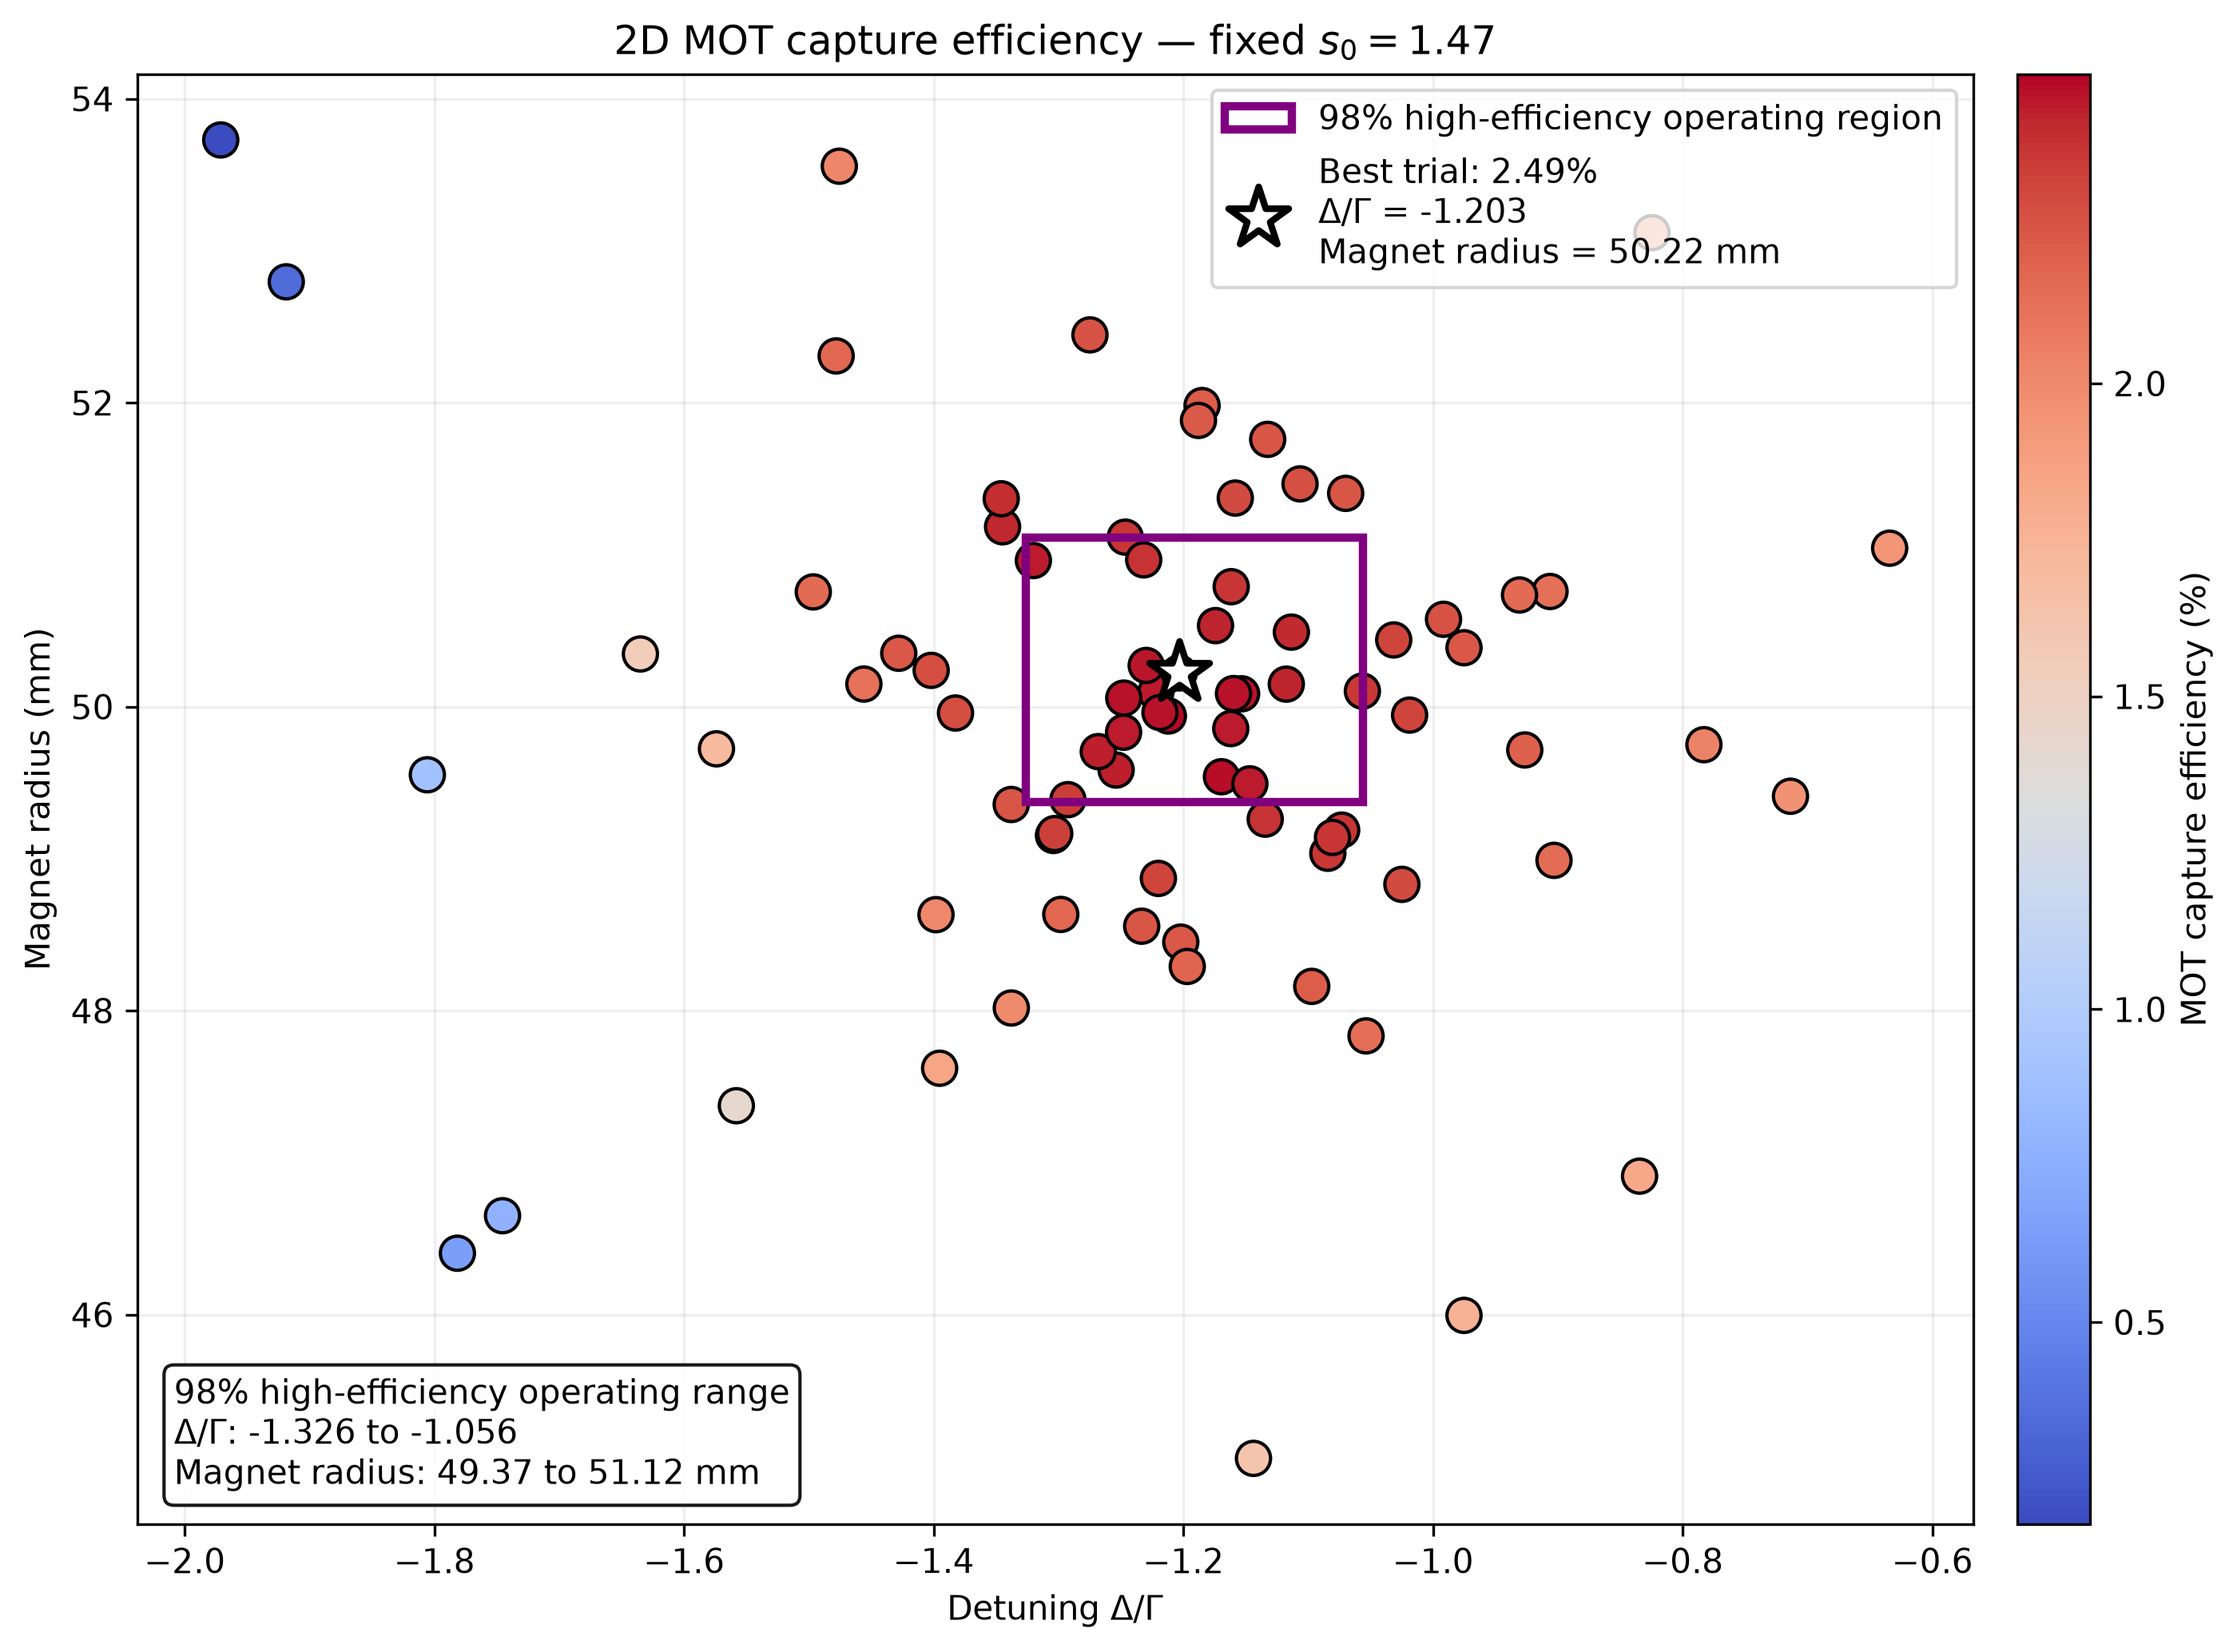
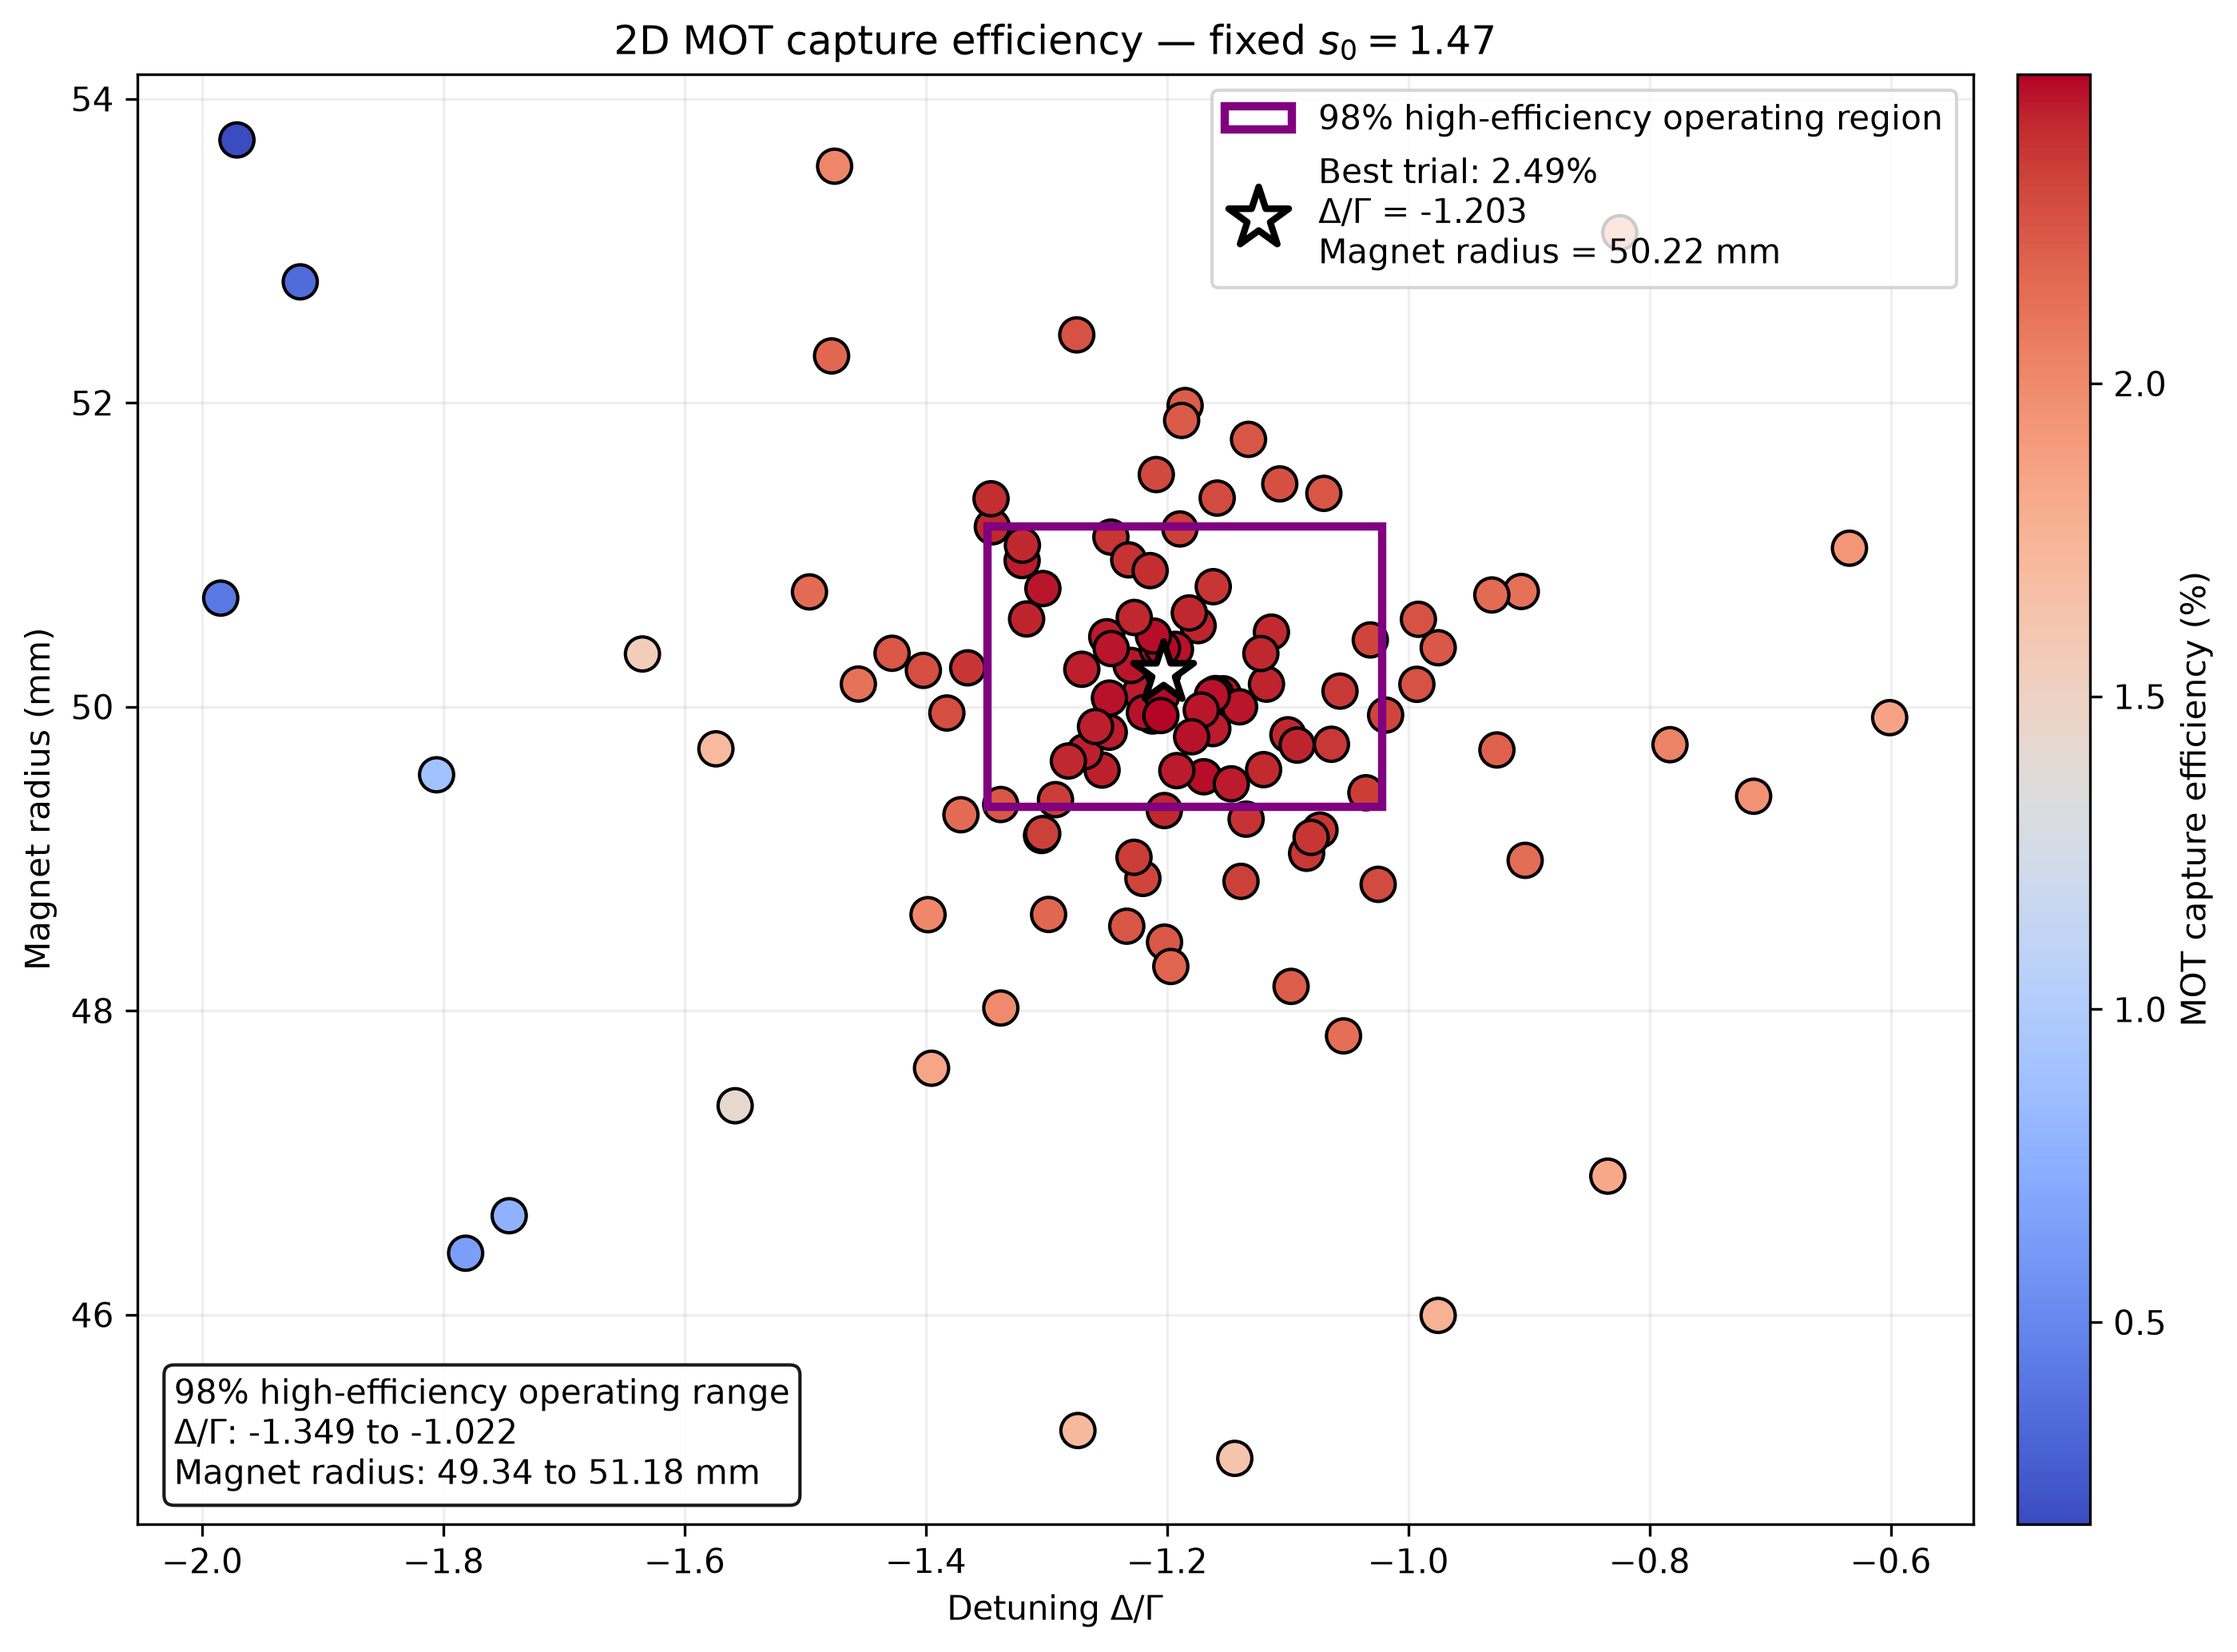
change 2D MOT config

diff --git a/graphs_scripts/plot_3d_mot_configurations.py b/graphs_scripts/plot_3d_mot_configurations.py
@@ -8,9 +8,8 @@ used by ``lab_setup.laser_setup_3d``.
 
 Run from the repository root, for example:
 
-    python plot_3d_mot_configurations.py
-    python plot_3d_mot_configurations.py --config angled_concentric
-    python plot_3d_mot_configurations.py --save --no-show
+    python -m graphs_scripts.plot_3d_mot_configurations
+    python -m graphs_scripts.plot_3d_mot_configurations --config angled_concentric
 
 Coordinates are shown in millimeters relative to the configured 3D-MOT center.
 The beam surfaces are schematic: their transverse size comes from the configured
@@ -61,20 +60,10 @@ def parse_args():
         ),
     )
     parser.add_argument(
-        "--save",
-        action="store_true",
-        help="Save each figure as a PNG.",
-    )
-    parser.add_argument(
         "--output-dir",
         type=Path,
-        default=Path("graphs/3d_mot_configurations"),
-        help="Directory used with --save.",
-    )
-    parser.add_argument(
-        "--no-show",
-        action="store_true",
-        help="Do not open interactive plot windows.",
+        default=Path("graphs/mot_3d_configurations"),
+        help="Directory for the generated PNG files.",
     )
     return parser.parse_args()
 
@@ -477,28 +466,18 @@ def main():
     else:
         config_names = [args.config]
 
-    if args.save:
-        args.output_dir.mkdir(parents=True, exist_ok=True)
+    args.output_dir.mkdir(parents=True, exist_ok=True)
 
-    figures = []
     for name in config_names:
         fig = plot_configuration(
             name,
             MOT_3D_CONFIGURATIONS[name],
             beam_length_m,
         )
-        figures.append(fig)
-
-        if args.save:
-            output_path = args.output_dir / f"3d_mot_{name}.png"
-            fig.savefig(output_path, dpi=220, bbox_inches="tight")
-            print(f"Saved: {output_path}")
-
-    if not args.no_show:
-        plt.show()
-    else:
-        for fig in figures:
-            plt.close(fig)
+        output_path = args.output_dir / f"3d_mot_{name}.png"
+        fig.savefig(output_path, dpi=220, bbox_inches="tight")
+        plt.close(fig)
+        print(f"Saved: {output_path}")
 
 
 if __name__ == "__main__":

diff --git a/config.py b/config.py
@@ -272,11 +272,11 @@ ZEEMAN_SIM_CONFIG = {
 # 6. 2D MOT
 # =============================================================================
 
-MOT_2D_MAGNET_RADIUS_M = 0.053
+MOT_2D_MAGNET_RADIUS_M = 0.0517
 
 MOT_2D_LASER_CONFIG = {
     "s0": 1.4,
-    "detuning_gamma": -1.47,
+    "detuning_gamma": -1.161,
     "swap_polarization": False,
 }
 
